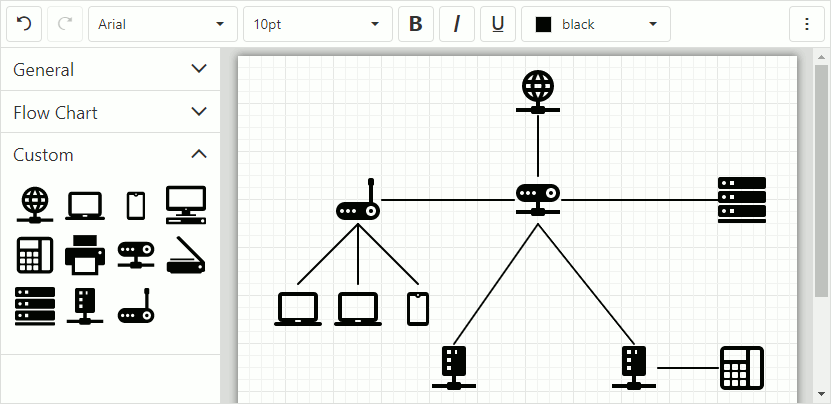
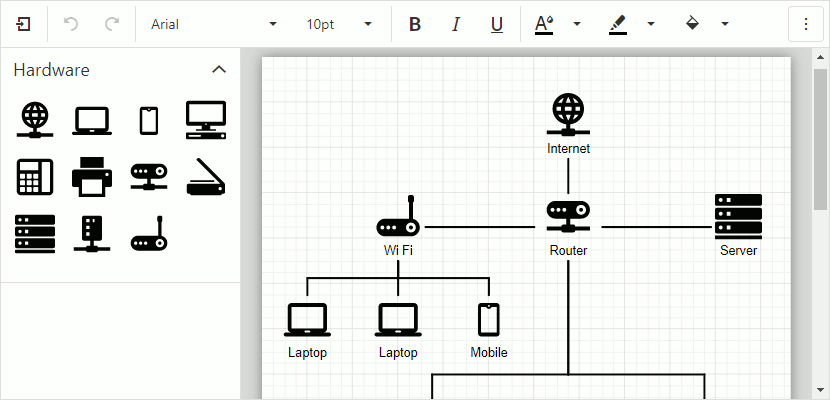
Update diagram getstarted [nikulina] (#4955)
* upd files

diff --git a/concepts/05 Widgets/Diagram/10 Data Binding/30 Hierarchical Array.md b/concepts/05 Widgets/Diagram/10 Data Binding/30 Hierarchical Array.md
@@ -1,0 +1,68 @@
+A tree constructed from a hierarchical object. Use the [dataSource](/Documentation/ApiReference/UI_Widgets/dxDiagram/Configuration/nodes/#dataSource) option to bind the widget to the object. You should set the [itemsExpr](/Documentation/ApiReference/UI_Widgets/dxDiagram/Configuration/nodes/#itemsExpr) option to the name of the field that provides data for nested items because the data has a hierarchical structure.
+
+        <!-- tab: index.js -->
+        $(function() {
+            $("#diagram").dxDiagram({
+                nodes: {
+                    dataSource: new DevExpress.data.ArrayStore({
+                        key: "this",
+                        data: employees,
+                    }),
+                    textExpr: function(item, value) {
+                        if(value !== undefined)
+                            item.Title = value;
+                        else
+                            return item && item.Title.replace(" ", "\n");
+                    },
+                    itemsExpr: "items"
+                },
+                layout: "tree"
+            });
+        });
+
+        <!-- tab: data.js -->
+        var employees = [{
+            "Full_Name": "John Heart",
+            "Prefix": "Mr.",
+            "Title": "CEO",
+            "City": "Los Angeles",
+            "State": "California",
+            "Email": "jheart@dx-email.com",
+            "Skype": "jheart_DX_skype",
+            "Mobile_Phone": "(213) 555-9392",
+            "Birth_Date": "1964-03-16",
+            "Hire_Date": "1995-01-15",
+            "items": [{
+                "Full_Name": "Samantha Bright",
+                "Prefix": "Dr.",
+                "Title": "COO",
+                "City": "Los Angeles",
+                "State": "California",
+                "Email": "samanthab@dx-email.com",
+                "Skype": "samanthab_DX_skype",
+                "Mobile_Phone": "(213) 555-2858",
+                "Birth_Date": "1966-05-02",
+                "Hire_Date": "2004-05-24",
+            }, {
+                "Full_Name": "Arthur Miller",
+                "Prefix": "Mr.",
+                "Title": "CTO",
+                "City": "Denver",
+                "State": "Colorado",
+                "Email": "arthurm@dx-email.com",
+            "Skype": "arthurm_DX_skype",
+                "Mobile_Phone": "(310) 555-8583",
+            "Birth_Date": "1972-07-11",
+                "Hire_Date": "2007-12-18",
+                "items": [{
+                    "Full_Name": "Brett Wade",
+                    "Prefix": "Mr.",
+                    "Title": "IT Manager",
+                    "City": "Reno",
+                    "State": "Nevada",
+                    "Email": "brettw@dx-email.com",
+                    "Skype": "brettw_DX_skype",
+                    "Mobile_Phone": "(626) 555-0358",
+                    "Birth_Date": "1968-12-01",
+                    "Hire_Date": "2009-03-06",
+        // ...

diff --git a/concepts/05 Widgets/Diagram/10 Data Binding/20 Linear Array.md b/concepts/05 Widgets/Diagram/10 Data Binding/20 Linear Array.md
@@ -1,0 +1,52 @@
+A tree constructed from a list where each record specifies its IDs and includes a parent node ID reference. Use the [dataSource](/Documentation/ApiReference/UI_Widgets/dxDiagram/Configuration/nodes/#dataSource) option to bind the widget to the list. You should specify the [keyExpr](/Documentation/ApiReference/UI_Widgets/dxDiagram/Configuration/nodes/#keyExpr) and [parentKeyExpr](/Documentation/ApiReference/UI_Widgets/dxDiagram/Configuration/nodes/#parentKeyExpr) options because of the data's plain structure. The **Diagram** uses information from the key fields to transform plain data into a tree.  
+
+        <!-- tab: index.js -->
+        $(function() {
+            $("#diagram").dxDiagram({
+                nodes: {
+                    dataSource: new DevExpress.data.ArrayStore({
+                        key: "ID",
+                        data: employees,
+                    }),
+                    keyExpr: "ID",
+                    textExpr: function(item, value) {
+                        if(value !== undefined)
+                            item.Title = value;
+                        else
+                            return item && item.Title.replace(" ", "\n");
+                    },
+                    parentKeyExpr: "Head_ID"
+                },
+                layout: "tree"
+            });
+        });
+
+        <!-- tab: data.js -->
+        var employees = [{
+            "ID": 1,
+            "Full_Name": "John Heart",
+            "Prefix": "Mr.",
+            "Title": "CEO",
+            "City": "Los Angeles",
+            "State": "California",
+            "Email": "jheart@dx-email.com",
+            "Skype": "jheart_DX_skype",
+            "Mobile_Phone": "(213) 555-9392",
+            "Birth_Date": "1964-03-16",
+            "Hire_Date": "1995-01-15"
+        }, {
+            "ID": 2,
+            "Head_ID": 1,
+            "Full_Name": "Samantha Bright",
+            "Prefix": "Dr.",
+            "Title": "COO",
+            "City": "Los Angeles",
+            "State": "California",
+            "Email": "samanthab@dx-email.com",
+            "Skype": "samanthab_DX_skype",
+            "Mobile_Phone": "(213) 555-2858",
+            "Birth_Date": "1966-05-02",
+            "Hire_Date": "2004-05-24"
+        },
+        // ...
+        ];

diff --git a/concepts/05 Widgets/Diagram/30 UI Customization.md b/concepts/05 Widgets/Diagram/30 UI Customization.md
@@ -1,0 +1,45 @@
+
+
+
+The **Diagram** widget allows you to customize its UI elements with the following options.
+
+- The [toolbar](/Documentation/ApiReference/UI_Widgets/dxDiagram/Configuration/toolbar/) option controls toolbar visibility and specifies a set of available commands.
+- The [toolbox](/Documentation/ApiReference/UI_Widgets/dxDiagram/Configuration/toolbox/) option controls element visibility, and specifies the groups and shapes visible in the toolbox.
+- The [propertiesPanel](/Documentation/ApiReference/UI_Widgets/dxDiagram/Configuration/propertiesPanel/) option contains settings of the Properties panel.
+- The [contextMenu](/Documentation/ApiReference/UI_Widgets/dxDiagram/Configuration/contextMenu/) option controls the context menu availability and specifies the visible commands.
+
+![Diagram control data toolbox](Content/images/doc/19_2/diagram/ui-customization.png)
+
+#include common-demobutton with {
[1 lines of base64/hex data omitted]
+}
+
+
+        <!--JavaScript-->
+        $(function() {
+            $("#diagram").dxDiagram({
+               contextMenu: {
+                     enabled: true,
+                     commands: ["bringToFront","sendToBack", "lock", "unlock"]
+               },
+               propertiesPanel: {
+                     enabled: true,
+                     collapsible: false,
+                     groups: [
+                        { commands: ["units"] },
+                        { commands: ["pageSize","pageOrientation","pageColor"] }
+                     ]
+               },
+               toolbar: {
+                     visible: true,
+                     commands: ["undo","redo","separator","fontName","fontSize","separator","bold","italic","underline","separator",
+                        "fontColor","lineColor","fillColor","separator"]
+               },
+               toolbox: {
+                     visible: true,
+                     groups: [
+                        "general", { category: "flowchart", title: "Flowchart", expanded: true }
+                     ]
+               }     
+            });
+        });

diff --git a/concepts/05 Widgets/Diagram/20 Custom Shapes.md b/concepts/05 Widgets/Diagram/20 Custom Shapes.md
@@ -1,0 +1,51 @@
+The **Diagram** widget provides a collection of built-in shapes. Use the [customShapes](/Documentation/ApiReference/UI_Widgets/dxDiagram/Configuration/customShapes/) option to extend this collection with custom shapes.
+
+![Diagram control custom shapes](Content/images/doc/19_2/diagram/custom-shapes.png)
+
+[note] Shape images should be supplied as SVG files. 
+
+#include common-demobutton with {
[1 lines of base64/hex data omitted]
+}
+
+Use the [toolbox](/Documentation/ApiReference/UI_Widgets/dxDiagram/Configuration/toolbox/) option to add the custom shapes to the toolbox.
+
+---
+
+#####jQuery
+
+    <!--JavaScript-->
+    $(function() {
+        var diagram = $("#diagram").dxDiagram({
+            customShapes: [{
+                category: "hardware",
+                type: "internet",
+                title: "Internet",
+                backgroundImageUrl: "images/shapes/internet.svg",
+                backgroundImageLeft: 0.15,
+                backgroundImageTop: 0,
+                backgroundImageWidth: 0.7,
+                backgroundImageHeight: 0.7,
+                defaultWidth: 0.75,
+                defaultHeight: 0.75,
+                defaultText: "Internet",
+                allowEditText: true,
+                textLeft: 0,
+                textTop: 0.7,
+                textWidth: 1,
+                textHeight: 0.3,
+                connectionPoints: [
+                    { x: 0.5, y: 0 },
+                    { x: 0.9, y: 0.5 },
+                    { x: 0.5, y: 1 },
+                    { x: 0.1, y: 0.5 }
+                ]
+            },
+            ...
+        ],
+        toolbox: {
+            groups: [{ category: "hardware", title: "Hardware" }]
+        }
+    }).dxDiagram("instance");
+    
+---

diff --git a/concepts/05 Widgets/Diagram/00 Getting Started with Diagram/20 Load and Save Diagram Content.md b/concepts/05 Widgets/Diagram/00 Getting Started with Diagram/20 Load and Save Diagram Content.md
@@ -1,8 +1,8 @@
-To load and save a diagram to a string variable, use the [setData](/Documentation/ApiReference/UI_Widgets/dxDiagram/Methods/#setDatadata_updateExistingItemsOnly) and [getData](/Documentation/ApiReference/UI_Widgets/dxDiagram/Methods/#getData) methods.
+To load and save a diagram to a string variable, use the [import](/Documentation/ApiReference/UI_Widgets/dxDiagram/Methods/#importdata_updateExistingItemsOnly) and [export](/Documentation/ApiReference/UI_Widgets/dxDiagram/Methods/#export) methods.
 
     <!--JavaScript-->
     var diagram = $("#diagram").dxDiagram("instance");
-    var diagramContent = diagram.getData(); // load diagram content to a variable
-    diagram.setData(newDiagramContent); // replace the existing diagram with a new diagram
+    var diagramContent = diagram.export(); // load diagram content to a variable
+    diagram.import(newDiagramContent); // replace the existing diagram with a new diagram
 
-[note] The **Diagram** widget stores an opened diagram's data in its own text format. Thereby we recommend you to not modify data returned by the [getData](/Documentation/ApiReference/UI_Widgets/dxDiagram/Methods/#getData) method. A manually modified document can be loaded incorrectly.
+[note] The **Diagram** widget stores an opened diagram's data in its own text format. Thereby we recommend you to not modify data returned by the [export](/Documentation/ApiReference/UI_Widgets/dxDiagram/Methods/#export) method. A manually modified document can be loaded incorrectly.

diff --git a/concepts/05 Widgets/Diagram/10 Data Binding/10 Node and Edge Arrays.md b/concepts/05 Widgets/Diagram/10 Data Binding/10 Node and Edge Arrays.md
@@ -1,0 +1,48 @@
+A graph constructed from two plain lists of nodes and edges. The **Diagram** binds its [nodes](/Documentation/ApiReference/UI_Widgets/dxDiagram/Configuration/nodes/) and [edges](/Documentation/ApiReference/UI_Widgets/dxDiagram/Configuration/edges/) collections to the appropriate lists.
+
+        <!-- tab: index.js -->
+        $(function() {
+            $("#diagram").dxDiagram({
+                nodes: {
+                    dataSource: orgItems
+                },
+                edges: {
+                    dataSource: orgLinks
+                },
+                layout: "tree"
+            });
+        });
+        
+        <!-- tab: data.js -->
+        var orgItems = [
+            {  
+                "id":"106",
+                "text":"Development",
+                "type":2
+            },
+            {  
+                "id":"108",
+                "text":"WPF\nTeam",
+                "type":2
+            },
+            {  
+                "id":"109",
+                "text":"Javascript\nTeam",
+                "type":2
+            },
+            // ...
+        ];
+
+        var orgLinks = [  
+            {  
+                "id":"124",
+                "from":"106",
+                "to":"108",
+            },
+            {  
+                "id":"125",
+                "from":"106",
+                "to":"109",
+            },
+            // ...
+        ];

diff --git a/concepts/05 Widgets/Diagram/00 Getting Started with Diagram/10 Add the Diagram Widget to a Page.md b/concepts/05 Widgets/Diagram/00 Getting Started with Diagram/10 Add the Diagram Widget to a Page.md
@@ -48,9 +48,7 @@ Initialize the **Diagram** widget in a DOM element.
         $(function() {
             $("#diagram").dxDiagram();
         });
-
-    <!---->
-        
+  
         <!--HTML-->
         <div id="diagram"></div>
 

diff --git a/concepts/05 Widgets/Diagram/10 Data Binding/Data Binding.md b/concepts/05 Widgets/Diagram/10 Data Binding/Data Binding.md
@@ -1,0 +1,1 @@
+The **Diagram** can load external treelike and graph structures. The supported data structures are listed below.
